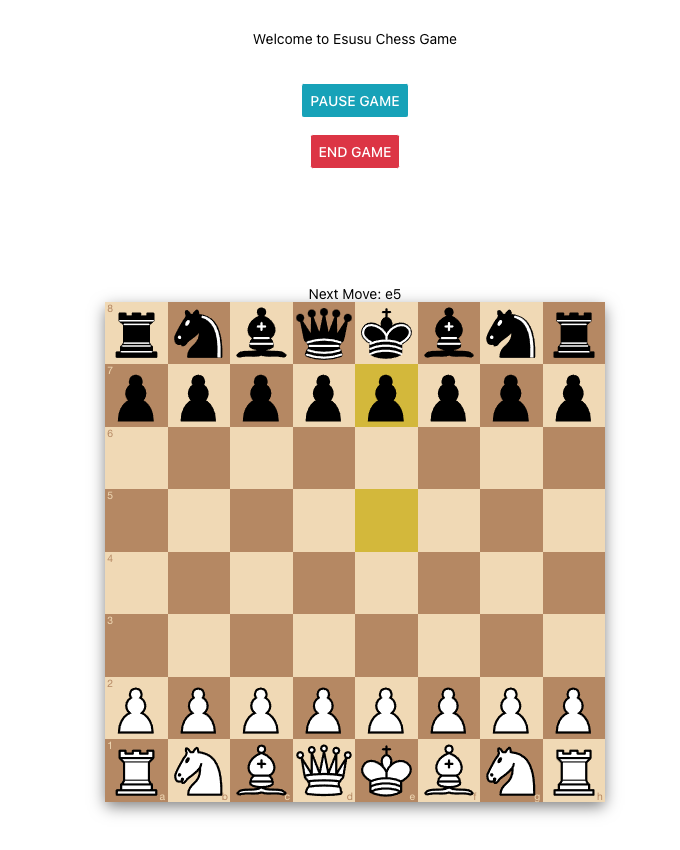
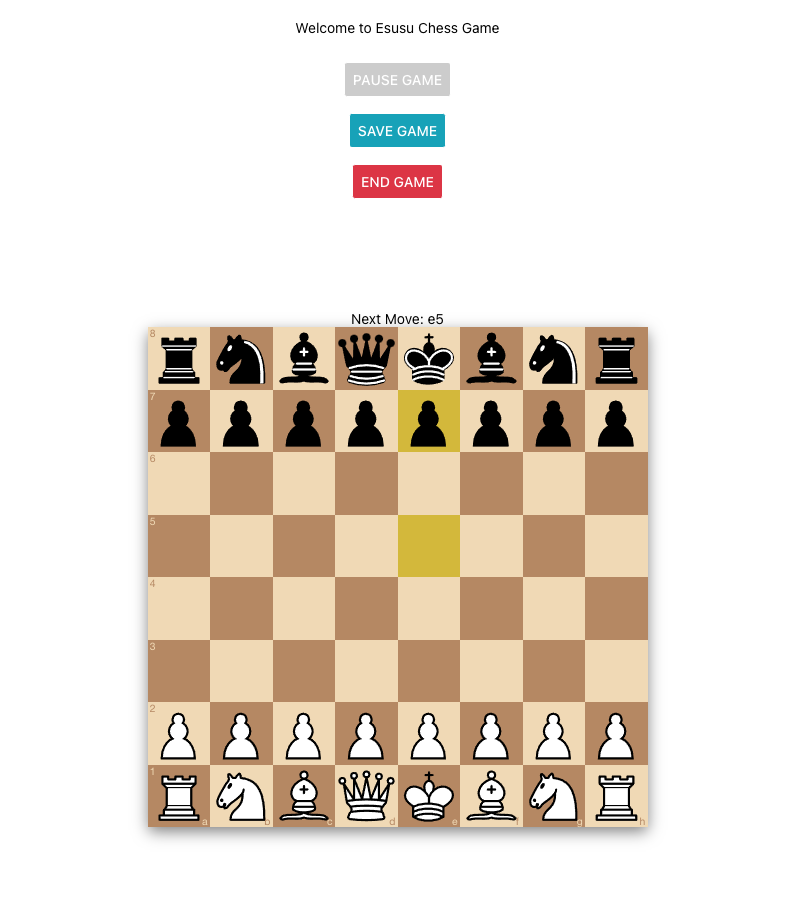
some mobile fixes for expo client

diff --git a/EsusuApp/src/screens/startpage.js b/EsusuApp/src/screens/startpage.js
@@ -33,7 +33,7 @@ const EsusuChess = props => {
   const onReStartGame = async player_id => {
 
       updateCurrentFen("start")
-      updateGame(new Chess())
+      updateGame(Chess)
      let new_game = await getGameId(player_id)
      if (new_game){
          updateState("board")
@@ -56,47 +56,67 @@ const EsusuChess = props => {
   }
 
   let current_view = (
-      <View style={styles.container}>
-          <Button
-           title="New Game vs CPU"
-           color="#28a745"
-           onPress={() => onLoadGame('computer')}
-          />
-          <br />
-          <Button
-           title="Load Game 1 (vs Human over Network)"
-           color="#777"
-           onPress={() => onLoadGame('0')}
-          />
-          <br />
-          <Button
-           title="Load Game 2 (vs Human over Network)"
-           color="#777"
-           onPress={() => onLoadGame('1')}
-          />
-          <br />
+      <View style={styles.body}>
+          <View style={styles.button}>
+              <Button
+               title="New Game vs CPU"
+               color="#28a745"
+               onPress={() => onLoadGame('computer')}
+              />
+          </View>
+
+          <View style={styles.button}>
+              <Button
+               title="Load Game 1 vs Human (over Network)"
+               color="#777"
+               onPress={() => onLoadGame('0')}
+               style={styles.button}
+              />
+          </View>
+
+          <View style={styles.button}>
+              <Button
+               title="Load Game 2 vs Human (over Network)"
+               color="#777"
+               onPress={() => onLoadGame('1')}
+               style={styles.button}
+              />
+          </View>
       </View>
   )
 
   if (currentState == "board"){
       current_view = (
-          <View style={styles.container}>
-              <Button title="Pause Game"  color="#ccc"  onPress={() => onPauseGame()} />
-              <br />
-              <Button title="Save Game" color="#17a2b8" onPress={() => onSaveGame()} />
-              <br />
-              <Button title="End Game" color="#dc3545" onPress={onEndGame}/>
+
+          <View style={styles.body}>
+              <View style={styles.button}>
+                  <Button title="Pause Game"  color="#ccc"  onPress={() => onPauseGame()} />
+              </View>
+
+              <View style={styles.button}>
+                  <Button title="Save Game" color="#17a2b8" onPress={() => onSaveGame()} />
+              </View>
+
+              <View style={styles.button}>
+                  <Button title="End Game" color="#dc3545" onPress={onEndGame}/>
+              </View>
               <EsusuChessboard vsComputer={vsComputer} />
           </View>
       )
   } else if (currentState == "existing"){
       current_view = (
-          <View style={styles.container}>
-              <Button title="Continue Game"  color="#17a2b8"  onPress={() => onLoadGame('1')} />
-              <br />
-              <Button title="Start New"  color="#28a745"  onPress={() => onReStartGame('0')} />
-              <br />
-              <Button title="End Game" color="#dc3545" onPress={onEndGame}/>
+          <View style={styles.body}>
+              <View style={styles.button}>
+                  <Button title="Continue Game"  color="#17a2b8"  onPress={() => onLoadGame('1')} />
+              </View>
+
+              <View style={styles.button}>
+                  <Button title="Start New"  color="#28a745"  onPress={() => onReStartGame('0')} />
+              </View>
+
+              <View style={styles.button}>
+                  <Button title="End Game" color="#dc3545" onPress={onEndGame}/>
+              </View>
           </View>
       )
   }
@@ -136,8 +156,18 @@ const styles = StyleSheet.create({
     backgroundColor: '#fff',
     alignItems: 'center',
     justifyContent: 'flex-start',
-    padding: '2%'
+    padding: '2%',
+    margin: 5,
+    marginTop: '7%'
   },
+  body: {
+    backgroundColor: '#fff',
+    alignItems: 'center',
+    justifyContent: 'flex-start'
+  },
+  button: {
+      margin: 5
+  }
 });
 
 

diff --git a/EsusuApp/src/screens/chessgame.js b/EsusuApp/src/screens/chessgame.js
@@ -74,8 +74,6 @@ const EsusuChessboard = props => {
 
     var { vsComputer } = props
 
-    console.log("currentHistory", currentHistory)
-
     // console.log("game_id", game_id)
     // console.log("name", name)
     // console.log("pgn", pgn)
@@ -89,6 +87,8 @@ const EsusuChessboard = props => {
                 updateopponentMOves(valid_o_moves)
             }
         }
+
+        window.addEventListener = x => x
     }, [])
 
 
@@ -265,9 +265,14 @@ const EsusuChessboard = props => {
 
   console.log("visual", opponentMOves)
 
+    // var divs = document.getElementsByTagName("DIV")
+    // for (const div of divs) {
+    //     div.addEventListener("click", onSquareClick)
+    // }
+
   return (
     <View style={styles.container}>
-      <Text>{visual}</Text>
+      <Text>{visual ? visual : ""}</Text>
       <Chessboard
         id="esusuboard"
         width={500}

diff --git a/EsusuApp/src/contexts/gamecontext.js b/EsusuApp/src/contexts/gamecontext.js
@@ -4,10 +4,12 @@ import Chess from "chess.js"; // import Chess from  "chess.js"(default) if recie
 
 const GameContext = createContext();
 
+var new_chess = Chess
+
 const GameProvider = props => {
     const [currentGame, updateCurrentGame] = useState(null)
 
-    const [game, updateGame] = useState(new Chess())
+    const [game, updateGame] = useState(new_chess)
 
     const [paused, updatePaused] = useState(null)
     // current board position

diff --git a/EsusuApp/App.js b/EsusuApp/App.js
@@ -4,6 +4,7 @@ import { StyleSheet, Text, View, Button } from 'react-native';
 import ApplicationProvider from './src/contexts'
 import EsusuChess from './src/screens/startpage'
 
+
 const App = props => {
   const [currentState, updateState] = useState("new")
 

diff --git a/README.md b/README.md
@@ -51,6 +51,7 @@ Write a node.js web service using any framework of your preference which exposes
 **Game Options Page**
 ![Game Options][start-page]
 
+
 **Load Game with ID: 1**
 ![Load Options][load-game]
 
